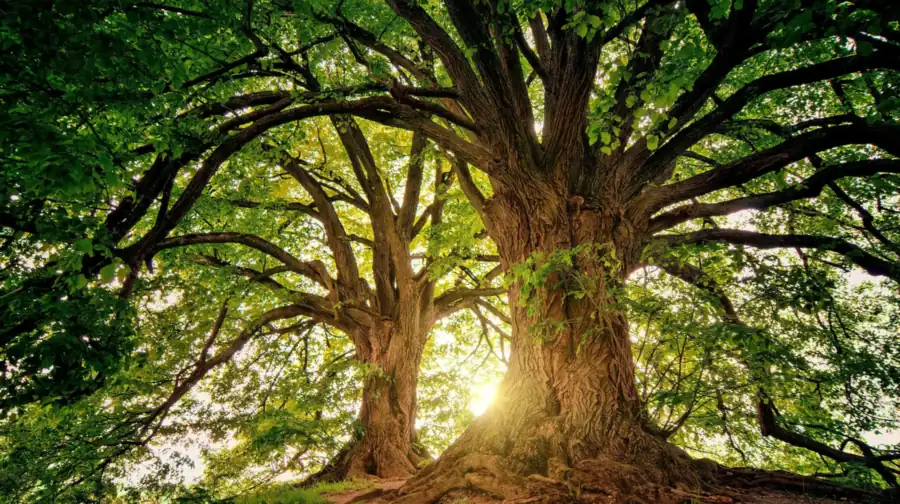
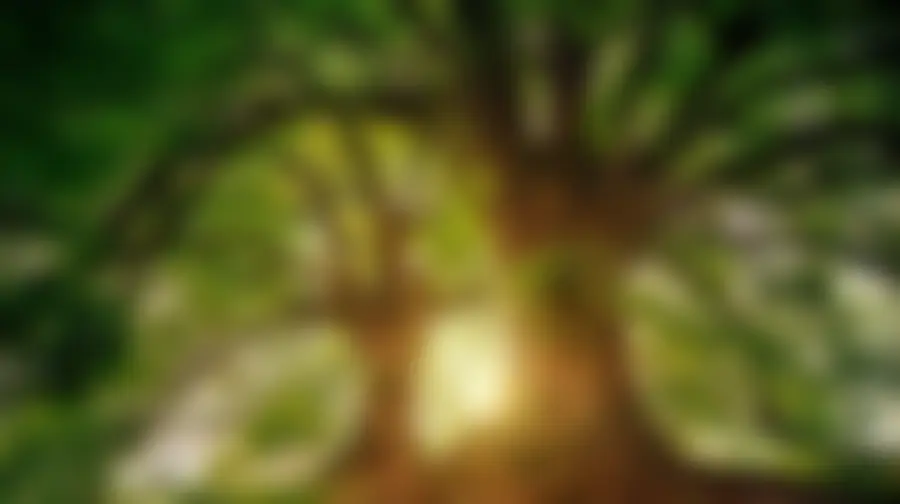
Light theme: rework hero, numbers, contact and footer
- Hero: the canopy photo is pre-blurred into soft sunlit bokeh (19KB,
  was 260KB) with a green tint only on the copy side, so the glass globe
  and headline read cleanly instead of fighting the branches
- Numbers: a clean jade band (#2F7D5D) replaces the muddy olive; white
  figures, gold labels
- Contact: calm mint-sage surface with forest type, jade icons and a
  white form, instead of brown dunes under a green overlay
- Footer: deeper jade gradient bookending the numbers band; white map card

diff --git a/src/sections.css b/src/sections.css
@@ -1659,7 +1659,6 @@ a.chan__row:focus-visible {
 [data-theme='light'] .numbers,
 [data-theme='light'] .why,
 [data-theme='light'] .reviews,
-[data-theme='light'] .contact,
 [data-theme='light'] .foot,
 [data-theme='light'] .sectors__band,
 [data-theme='light'] .services__panel {
@@ -1731,18 +1730,21 @@ a.chan__row:focus-visible {
 
 /* ---- hero: v1's sunlit canopy under a forest → olive overlay ---- */
 [data-theme='light'] .hero {
+  /* The canopy is pre-blurred into soft sunlit bokeh (~19KB): atmosphere
+     without detail, so the glass globe and the headline stay clean. The
+     tint sits on the copy side only (RTL: right) and stays green, not grey. */
   background:
-    linear-gradient(135deg, rgba(31, 61, 48, 0.62) 0%, rgba(45, 84, 66, 0.5) 45%, rgba(85, 102, 66, 0.46) 75%, rgba(61, 104, 86, 0.58) 100%),
-    url('/images/hero-canopy.webp') center / cover no-repeat,
-    var(--teal);
+    linear-gradient(to left, rgba(16, 62, 44, 0.66) 0%, rgba(16, 62, 44, 0.36) 42%, rgba(16, 62, 44, 0.12) 75%),
+    url('/images/hero-canopy.webp') center 40% / cover no-repeat,
+    #2f7d5d;
 }
 
 @media (max-width: 900px) {
   [data-theme='light'] .hero {
     background:
-      linear-gradient(180deg, rgba(31, 61, 48, 0.66) 0%, rgba(45, 84, 66, 0.52) 55%, rgba(61, 104, 86, 0.62) 100%),
+      linear-gradient(180deg, rgba(16, 62, 44, 0.62) 0%, rgba(16, 62, 44, 0.3) 55%, rgba(16, 62, 44, 0.2) 100%),
       url('/images/hero-canopy-sm.webp') center / cover no-repeat,
-      var(--teal);
+      #2f7d5d;
   }
 }
 
@@ -1750,12 +1752,12 @@ a.chan__row:focus-visible {
    into the olive numbers band below instead of into black */
 [data-theme='light'] .stage__vignette {
   background:
-    radial-gradient(120% 90% at 30% 45%, transparent 45%, rgba(31, 61, 48, 0.35) 100%),
-    linear-gradient(to top, var(--band) 1%, transparent 22%);
+    radial-gradient(120% 90% at 30% 45%, transparent 55%, rgba(16, 62, 44, 0.22) 100%),
+    linear-gradient(to top, var(--band) 0%, transparent 18%);
 }
 
 [data-theme='light'] .stage__vignette::after {
-  background: linear-gradient(to right, transparent 30%, rgba(31, 61, 48, 0.38) 62%, rgba(31, 61, 48, 0.55) 100%);
+  background: none;
 }
 
 @media (max-width: 1023px) {
@@ -1765,14 +1767,35 @@ a.chan__row:focus-visible {
 }
 
 [data-theme='light'] .hero__eyebrow {
-  background: rgba(31, 61, 48, 0.45);
+  background: rgba(16, 62, 44, 0.4);
+}
+
+/* type on a bright photo needs a whisper of shadow to hold its edge */
+[data-theme='light'] .hero__lede,
+[data-theme='light'] .hero__coords,
+[data-theme='light'] .hero__title-sub {
+  text-shadow: 0 1px 12px rgba(10, 40, 28, 0.45);
+}
+
+[data-theme='light'] .hero__title-main {
+  background: linear-gradient(190deg, #ffffff 30%, #d7f0e1 130%);
+  -webkit-background-clip: text;
+  background-clip: text;
 }
 
 /* ---- numbers: an olive band ---- */
 [data-theme='light'] .numbers {
   background:
-    radial-gradient(70% 90% at 18% 70%, rgba(232, 201, 127, 0.14), transparent 70%),
-    var(--band);
+    radial-gradient(60% 80% at 15% 75%, rgba(255, 255, 255, 0.1), transparent 70%),
+    linear-gradient(180deg, #2f7d5d 0%, #2a7356 100%);
+}
+
+[data-theme='light'] .figures__n {
+  color: #fff;
+}
+
+[data-theme='light'] .figures__l {
+  color: #f5d88f;
 }
 
 [data-theme='light'] .figures,
@@ -1785,7 +1808,7 @@ a.chan__row:focus-visible {
 }
 
 [data-theme='light'] .numbers .bg--print {
-  opacity: 0.32;
+  opacity: 0.22;
 }
 
 /* ---- stone surfaces ---- */
@@ -1833,13 +1856,38 @@ a.chan__row:focus-visible {
 }
 
 [data-theme='light'] .contact {
-  --scrim: linear-gradient(
-    180deg,
-    rgba(31, 61, 48, 0.7) 0%,
-    rgba(61, 90, 60, 0.42) 35%,
-    rgba(61, 90, 60, 0.5) 70%,
-    rgba(31, 61, 48, 0.78) 100%
-  );
+  background:
+    radial-gradient(70% 90% at 85% 10%, rgba(255, 255, 255, 0.55), transparent 60%),
+    linear-gradient(160deg, #e6efe7 0%, #d3e5d8 100%);
+  --scrim: none;
+}
+
+[data-theme='light'] .contact > .bg {
+  display: none;
+}
+
+[data-theme='light'] .contact .sec-kicker {
+  color: var(--sand-deep);
+}
+
+[data-theme='light'] .chan,
+[data-theme='light'] .chan__row {
+  border-color: rgba(31, 61, 48, 0.16);
+}
+
+[data-theme='light'] .chan__ic {
+  background: #fff;
+  border-color: rgba(31, 61, 48, 0.12);
+  color: #2f7d5d;
+}
+
+[data-theme='light'] .chan__row--wa .chan__v {
+  color: #2f7d5d;
+}
+
+[data-theme='light'] a.chan__row:hover,
+[data-theme='light'] a.chan__row:focus-visible {
+  background: rgba(47, 125, 93, 0.1);
 }
 
 /* different colours meet at these seams now, so keep the full top pad */
@@ -1917,21 +1965,43 @@ a.chan__row:focus-visible {
 
 /* ---- contact ---- */
 [data-theme='light'] .contact__natl {
-  background: rgba(246, 246, 239, 0.94);
+  background: #fff;
+  border-color: rgba(31, 61, 48, 0.12);
 }
 
 [data-theme='light'] .cform {
-  background: #f6f6ef;
-  box-shadow: 0 22px 50px -24px rgba(7, 20, 16, 0.55);
+  background: #fff;
+  border-block-start-color: #2f7d5d;
+  box-shadow: 0 1px 2px rgba(31, 61, 48, 0.06), 0 24px 48px -24px rgba(31, 61, 48, 0.35);
+}
+
+[data-theme='light'] .cform .btn--solid {
+  background: #2f7d5d;
+}
+
+[data-theme='light'] .cform .btn--solid:hover {
+  background: #24664c;
 }
 
 /* ---- footer: the brand teal closes the page ---- */
 [data-theme='light'] .foot {
-  background: var(--teal);
+  background: linear-gradient(180deg, #2a7356 0%, var(--jade-deep) 100%);
+}
+
+[data-theme='light'] .foot h4 {
+  color: #f5d88f;
+}
+
+[data-theme='light'] .foot .bg--print {
+  opacity: 0.14;
+}
+
+[data-theme='light'] .loc .btn--solid {
+  background: #2f7d5d;
 }
 
 [data-theme='light'] .loc {
-  background: #f6f6ef;
+  background: #fff;
   border-color: transparent;
   box-shadow: 0 18px 40px -20px rgba(7, 20, 16, 0.55);
 }
@@ -1948,5 +2018,10 @@ a.chan__row:focus-visible {
 [data-theme='light'] .foot__social a:focus-visible {
   background: #fff;
   border-color: #fff;
-  color: var(--teal);
+  color: var(--jade-deep);
+}
+
+/* the outline button can sit over the globe's land dots (phones) */
+[data-theme='light'] .hero .btn--ghost {
+  background: rgba(16, 62, 44, 0.35);
 }

diff --git a/src/base.css b/src/base.css
@@ -85,7 +85,9 @@
   --night: #1f3d30;
   --vignette: rgba(31, 61, 48, 0.5);
 
-  --band: #5c7550;
+  /* a clean, saturated jade — the olive band read as dirty */
+  --band: #2f7d5d;
+  --jade-deep: #24664c;
 
   --field: #fbfbf7;
   --ok: #2d6f4c;
